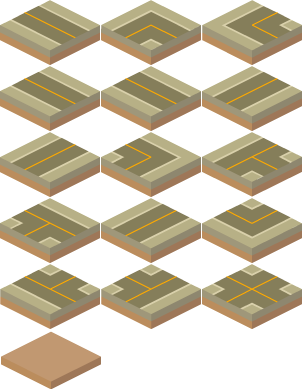
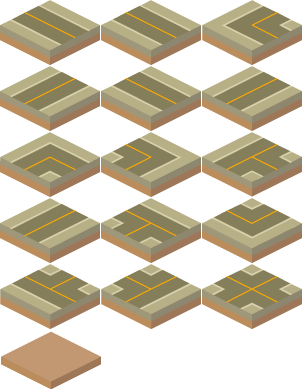
Change frame name

diff --git a/examples/board/road.js b/examples/board/road.js
@@ -77,7 +77,6 @@ class RoadTile extends Phaser.GameObjects.Image {
         scene.add.existing(this);
 
         this.board = board;
-        // this.txtDebug = scene.add.text(0, 0, '', { color: '#00F' }).setOrigin(0.5);
 
         this.setData('road', !!isRoad);
         this.on('changedata-road', function (gameObject, value, previousValue) {
@@ -91,29 +90,30 @@ class RoadTile extends Phaser.GameObjects.Image {
     }
 
     updateFrame() {
-        var frameIndex = 0;
         if (this.getData('road')) {
-            frameIndex = 0;
+            var neighborRoads = [0, 0, 0, 0];
+            var hasNeighobrRoad = false;
             for (var i = 0; i < 4; i++) {
                 var neighbor = this.board.getNeighborChess(this, i);
                 if (neighbor) {
                     if (neighbor.getData('road')) {
-                        frameIndex |= (1 << i);
+                        neighborRoads[i] = 1;
+                        hasNeighobrRoad = true;
                     }
                 }
             }
 
-            // At least it shows default road
-            if (frameIndex === 0) {
-                frameIndex = (Math.random() > 0.5) ? 1 : 2;
+            if (hasNeighobrRoad) {
+                var right = neighborRoads[0],
+                    bottom = neighborRoads[1],
+                    left = neighborRoads[2],
+                    top = neighborRoads[3];
+                this.setFrame(`${top}${left}${bottom}${right}`);
+            } else {  // At least it shows default road
+                this.setFrame('0001');
             }
-        }
-        this.setFrame(`${Pad(frameIndex, 3, '0', 1)}`);
-
-        if (this.txtDebug) {
-            this.txtDebug
-                .setPosition(this.x, this.y)
-                .setText(`${this.getData('road') ? 1 : 0}:${frameIndex}`);
+        } else {
+            this.setFrame('0000');
         }
         return this;
     }
